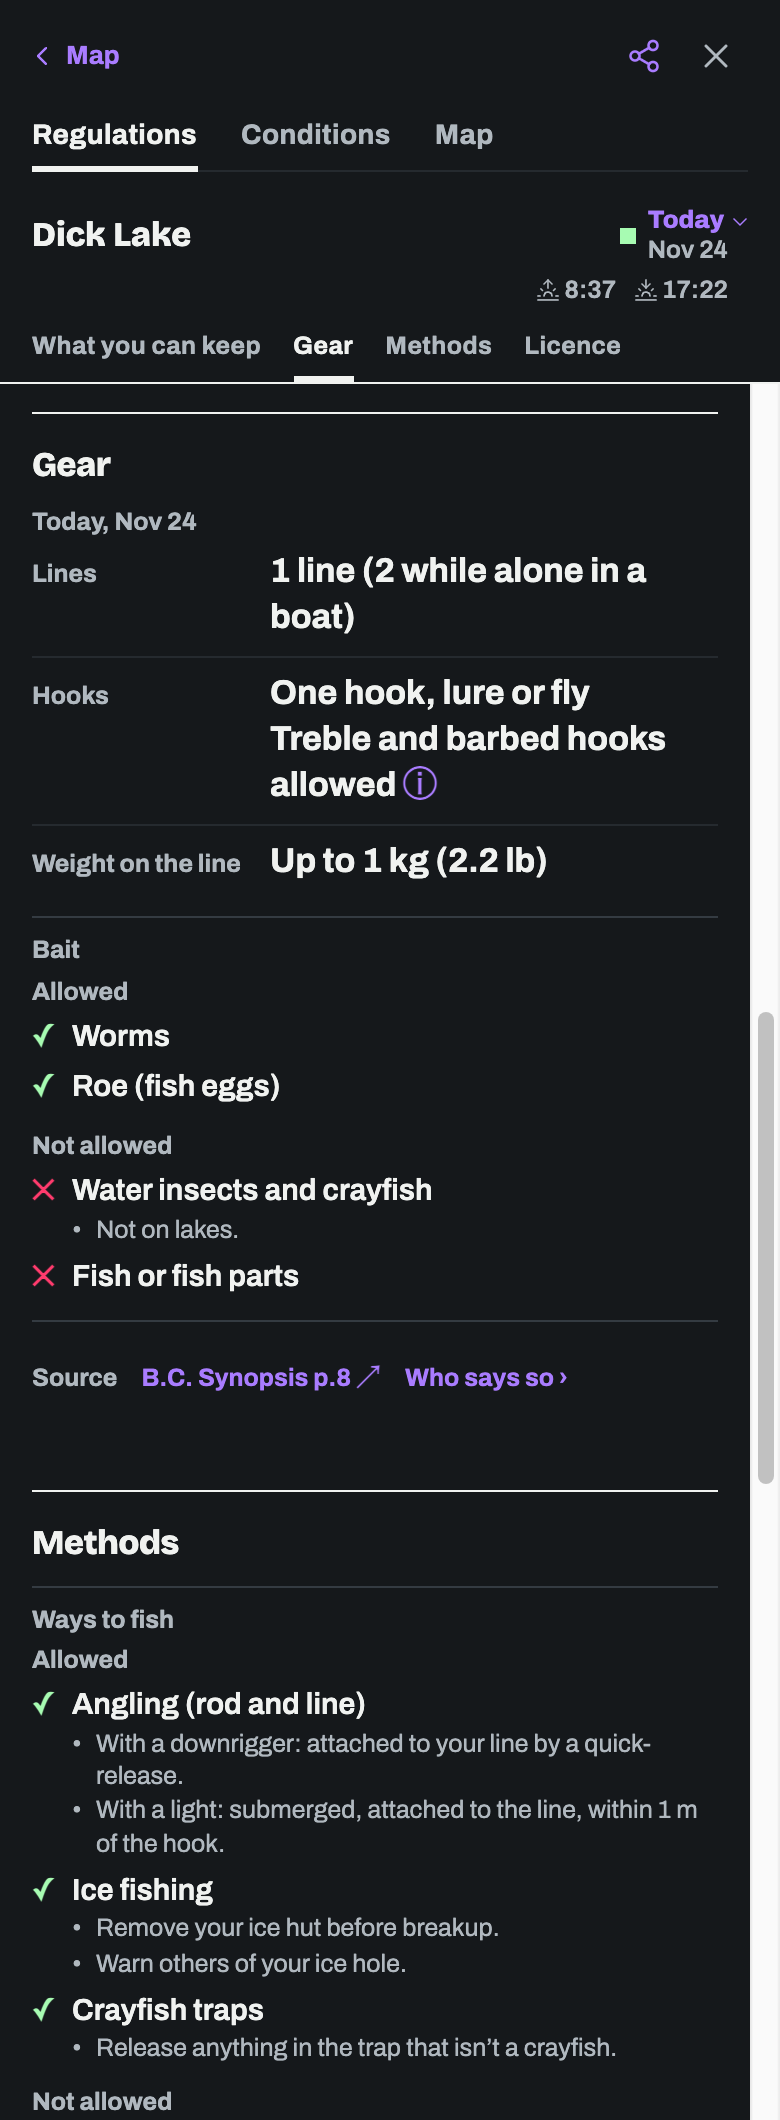
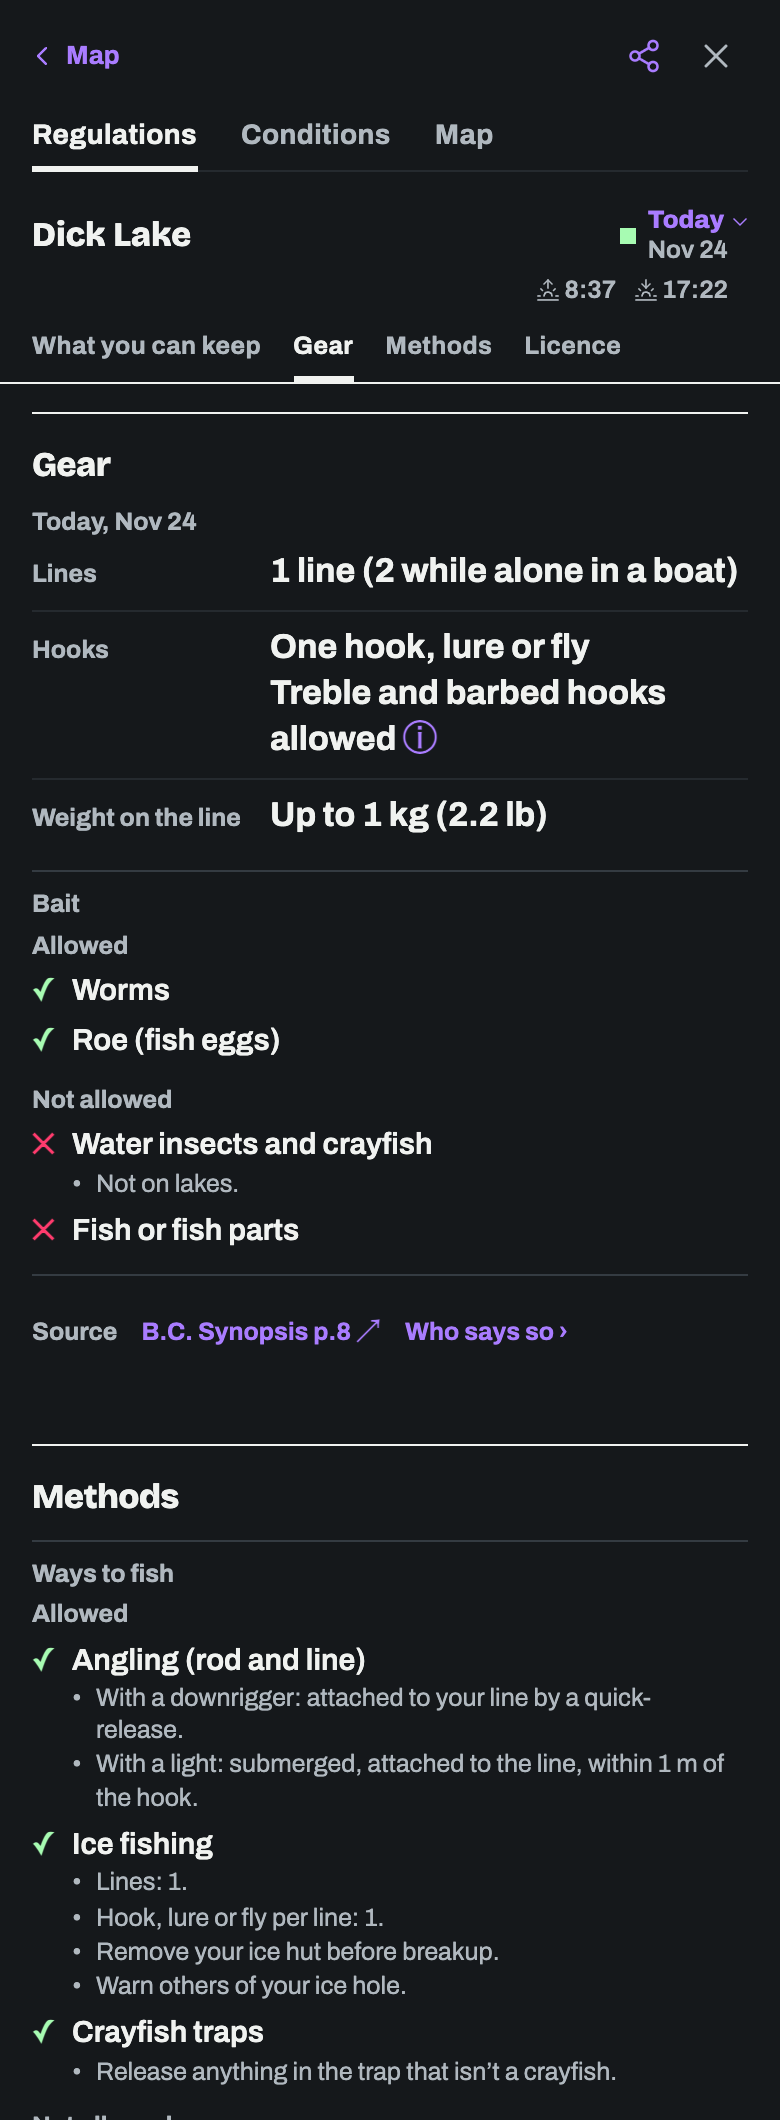
docs(T1051): review answered; PARTIAL with three owner questions, recount, pictures and proposals

diff --git a/handoff/PLAN/app-integration/tickets/T1051-treble-hooks-on-a-lake.md b/handoff/PLAN/app-integration/tickets/T1051-treble-hooks-on-a-lake.md
@@ -1,6 +1,6 @@
 # T1051 — "Are treble hooks allowed here?": a lake's Gear tab says nothing about treble or barbed hooks
 
-Status: DONE — 5c68e2bda, 474f38bb0 (the frozen VM fixtures) (0.9.1; app only: the frame already ships `hook` and `fly` for every part, so it needs the 0.9.1 app build, no data release; it works on the 0.9.0 data)
+Status: PARTIAL — 5c68e2bda, 474f38bb0, 4b45d37e1 (review fix) (0.9.1; needs the 0.9.1 app build AND the 0.9.1 data release for the new glossary term: on 0.9.0 data the line shows with no ⓘ). left (Claude): the three owner questions below go to the owner through the coordinator (the planning chat tracks owner items), then the picked wording is built; the defaults are built meanwhile.
 
 Source: in-app report `437acc75d93a4a1a` (staging feeds worker, the owner, 2026-11-24 18:49 UTC), reason "rule", on
 Dick Lake `wbk:328989582`, part 0, "Today, Nov 24", Regulations view, web, app 0.9.0 (build 43, 127bf43), release
@@ -60,34 +60,60 @@ an info button to the book's wording, on every water where it is true). This REP
 hook" confused; say no hook at all where nothing restricts hooks): the summary sentence still names no hook there, and
 the Hooks row now says what is allowed.
 
-## Done (lane L20, 2026-11-24)
+## Done (lane L20, 2026-11-24; review of #144 the same day)
 
-- The frame ships `hook` (and `fly`) on every gear answer (`answers.generated.ts` `GearAnswer.hook`, `gear.py`
-  `resolve`), so core words it; no pipeline change. `app/packages/core/src/regs/gear.ts` `hooksAllowed` + `gearLines`:
-  a second Hooks line, computed per water and day, only what is true:
-  - `trebles_and_barbs` (no point limit, no barb ban), no fly mode: "Treble and barbed hooks allowed", one ⓘ =
-    `def_single_hook` (p.80 "use of a treble hook is permitted unless 'single hook' is specified"); the section's source
-    line already carries p.8;
+- The frame ships `hook` (and `fly`) on every gear answer (`answers.generated.ts` `GearAnswer.hook`, `gear.py` `resolve`),
+  so core words it. `app/packages/core/src/regs/gear.ts` `hooksAllowed` + `gearLines`: a second Hooks line, per water and
+  day, only what is true:
+  - `trebles_and_barbs` (no point limit, no barb ban), no fly mode: "Treble and barbed hooks allowed";
   - `any_barbless` (barbless required, points not limited), no fly mode: "Treble hooks allowed" (the row's "Barbless
-    hooks" stays), ⓘ `def_single_hook`;
-  - `single` (one point, barbs allowed), or a fly-only water whose answer allows barbs: "Barbed hooks allowed", ⓘ
-    `single_barbless_hook` (its quote carries p.8 "the use of barbed hooks in lakes is permitted, unless noted");
-  - `single_barbless` (every stream unless its row lifts it): nothing added. A fly is "a single-pointed hook" (p.80
-    artificial fly), so no fly-only water says treble.
-  Words in `words.ts` `GEAR.HOOKS_ALLOWED`, ids in `HOOKS_ALLOWED_TERMS`.
-- Tests: `gear.test.ts` "(T1051) …" (Dick Lake and Dick Creek whole strings, the truth table, fly modes, a point count,
-  the ⓘ only when the glossary has it). Mutation-proved: no line (2 fail), treble said on fly-only waters (1 fails).
-  The fixture's default `hook` moved from `any` (no water has it) to `single_barbless` so the older cases add no line.
-- Over the 0.9.0 release (`r-0aec88ed3edb`), named waters by what their Hooks row gains over the year: "Treble and
-  barbed hooks allowed" 7,346 (7,300 lakes, 45 wetlands, 1 stream: Pend-d'Oreille River, RULINGS G9) + 8 lakes on some
-  days only (Cowichan, Eagan, Main Lake …; single barbless on the others) + Osoyoos Lake (both / treble-only by day);
-  "Treble hooks allowed" 1 (Quesnel Lake); "Barbed hooks allowed" 37 lakes (single-hook lakes such as Andy, Hihium,
-  Whiteswan; fly-only lakes such as Valentine, Nilkitkwa); nothing added 12,127 streams + 245 lakes. Unnamed sections:
-  695,733 gain the both line, 1,180,186 nothing.
-- Pictures (web 390 px, Nov 24; before = the 0.9.0 app on the 0.9.0 release, after = this branch on a side release cut with T1050, so its Ice fishing lists no counts): `T1051-shots/dick-lake-gear-before-*.png`,
-  `dick-lake-gear-after-*.png`, the stream `dick-creek-gear-after-*.png` (unchanged), `pend-doreille-gear-after-*.png`
-  (a stream where both are true), `quesnel-lake-gear-after-*.png`, `andy-lake-gear-after-*.png` (light and dark).
+    hooks" stays);
+  - `single` (one point, barbs allowed), or a fly-only water whose answer allows barbs: "Barbed hooks allowed";
+  - `single_barbless` (every stream unless its row lifts it): nothing added. A fly is "a single-pointed hook that is
+    dressed only with fur, feathers, hair, textiles, tinsel and/or wire" (printed p.80, PDF p.86 of the repo copy), so no
+    fly-only water says treble. (The review quoted "a single or double hook dressed …": that is the older wording in
+    `gear.py`'s fly-mode comment, not this book's; the comment in `gear.ts` now quotes the printed text.)
+- Review HIGH (4b45d37e1): the hook answer is the WHOLE water's. Where a hook rule (points or barb) is held only in a part
+  no map draws (`in_part`), on one side or some hours (`side`, `timed`) or in a circumstance (`circumstantial`), an
+  unqualified "allowed" is untrue somewhere: no line there, as before T1051. In the 0.9.0 release: François Lake (outlet
+  area, map 1), Upper Arrow Lake (north-end drawdown area), Pitt Lake (north of the head-of-lake signs) on every day, and
+  Mahood Lake on Jul 1–Dec 31 (its two in-part areas). Their wording is an owner question (pictures below).
+- Review MED (4b45d37e1): the ⓘ on "Treble and barbed hooks allowed" and "Barbed hooks allowed" opens a NEW glossary term,
+  `treble_and_barbed_hooks` "Treble and barbed hooks" (`pipeline/deliver/answers/glossary.py` `t_treble_and_barbed`): plain
+  words, then in the book's words p.80's single-hook definition with its treble note and p.8's "the use of barbed hooks in
+  lakes is permitted, unless noted …", pages 8 and 80. The p.80 `def_single_hook` alone backed only the treble half, and
+  the "Single barbless hook" term's title contradicts the line. "Treble hooks allowed" (barbless required) keeps
+  `def_single_hook`. The term ships in the answers file (0.9.1 data release); an app on 0.9.0 data draws the line without
+  its ⓘ (the glossary lacks the id).
+- Review LOW: an unknown hook answer draws no line and is reported (`UnknownHookAnswer`, `reportFailure`, W46).
+- Tests: `gear.test.ts` "(T1051) …" and "(T1051 review) …" (Dick Lake and Dick Creek whole strings; the truth table; fly
+  modes; a point count; François, Mahood, Upper Arrow and Pitt lakes with their in-part rule; side, timed, circumstance;
+  the unknown answer reported); `pipeline/tests/test_glossary_treble_barbed.py` (the term quotes both halves). Mutation-
+  proved: no line (2 fail), treble on fly-only waters (1), no part guard (2), in_part only (1), any part rule counts (1),
+  the unknown answer silent (1). The frozen regs VM fixtures (klwa_1010, klwa_1012, x35p_1010) carry the line.
+- Over the 0.9.0 release (`r-0aec88ed3edb`), named waters by what their Hooks row gains over the year (recounted after the
+  review fix): "Treble and barbed hooks allowed" every day 7,342 (7,296 lakes, 45 wetlands, Pend-d'Oreille River, RULINGS
+  G9), on some days 8 lakes (single barbless on the others: Cowichan, Eagan, Main …) + Osoyoos Lake (both / treble-only by
+  day) + Mahood Lake (Jan 1–Jun 30); "Treble hooks allowed" 1 (Quesnel Lake); "Barbed hooks allowed" 37 lakes (single-hook
+  lakes such as Andy, Hihium, Whiteswan; fly-only lakes such as Valentine, Nilkitkwa); no line because of a part rule 3
+  lakes (François, Upper Arrow, Pitt); nothing added 12,127 streams + 245 lakes.
+- Pictures (web 390 px, Nov 24, `T1051-shots/`, light and dark): before (0.9.0 app on the 0.9.0 release)
+  `dick-lake-gear-before-*`; after (this branch on a side release cut with this branch's glossary) `dick-lake-gear-after-*`,
+  the ⓘ sheet `dick-lake-hooks-sheet-*` and with its book's words open `dick-lake-hooks-sheet-book-words-*`,
+  `francois-lake-gear-after-*` (no line); earlier after shots `dick-creek-gear-after-*` (a stream, unchanged),
+  `pend-doreille-gear-after-*`, `quesnel-lake-gear-after-*`, `andy-lake-gear-after-*` (their ⓘ then opened the earlier
+  terms). PROPOSALS only (not built): `proposal-A-francois-lake-except-in-spots-*` "Treble and barbed hooks allowed, except
+  in some spots (see above)" and `proposal-B-francois-lake-most-of-the-lake-*` "Treble and barbed hooks allowed in most
+  of the lake; a single barbless hook in some spots (see above)" (the page's "Fishing is different in some spots today"
+  block lists the part rule above the Gear section).
 - Not done here: Dick Lake's Bait line "Not allowed: Water insects and crayfish · Not on lakes." is T1075 (the Bait
-  item, `bait.ts` / `BAIT` words, a different code path from the Hooks row).
-- Owner to confirm (built as default): the two partial wordings ("Treble hooks allowed", "Barbed hooks allowed") and
-  the ⓘ on "Barbed hooks allowed" (the Single barbless hook sheet, whose p.8 words say barbs are allowed in lakes).
+  item, a different code path from the Hooks row).
+
+## Owner questions (built default in brackets)
+
+1. The two partial wordings: "Treble hooks allowed" (barbless required, Quesnel Lake) and "Barbed hooks allowed"
+   (single hook required, 37 lakes). [built as written]
+2. The ⓘ sheet "Treble and barbed hooks" (`dick-lake-hooks-sheet-*`): its title and plain words. [built as shown]
+3. The lakes where a part holds a single barbless hook (François, Upper Arrow, Pitt; Mahood Jul–Dec): A "…, except in some
+   spots (see above)", B "… in most of the lake; a single barbless hook in some spots (see above)", or C no line (as
+   now). [C until he picks]

diff --git a/handoff/PLAN/app-integration/tickets/README.md b/handoff/PLAN/app-integration/tickets/README.md
@@ -293,7 +293,7 @@ reads both files; a ticket closed here moves there once its lane is finished wit
 | T1049 | A start link's scroll lands short: it jumps to the first measured section top and never re-checks | PARTIAL — 0.9.1: a slow cold start waits for the salmon card, the in-season notices and a settled page; device gear 6/6, licence 6/6, was 2/12, 0/11; #107 no different; left (Claude): review and merge of #122, then the device check on a release build | ae65ef767, a2478c6dc, d2239c54d, b3de2bbc1, 09f6346e0, eb8e2092a, 5f8a37cbc, 53e9106e2 | review of #80 (T1038), 2026-11-23; 0.9.0 device pass |
 | T1045 | Gauge pages should come up for "<river> river forecast / level / flow" (title/H1 words, water-to-gauge links, JSON-LD) | DONE | 859b10591, fc3626905, 4af1ba636, 0922cb1f3 | owner 2026-11-23 (lane L27) |
 | T1050 | Methods: "Ice fishing" repeats the Gear tab's line and hook counts (Dick Lake) | OPEN — 0.9.1; owner pick of the words, then pipeline + data release | | staging report 4eedeb08d1964b44 (owner 2026-11-24); lane L19 |
-| T1051 | A lake's Gear tab says nothing about treble or barbed hooks (both allowed; Dick Lake) | DONE — 0.9.1; needs the 0.9.1 app build | 5c68e2bda, 474f38bb0 | staging report 437acc75d93a4a1a (owner 2026-11-24); lane L19 |
+| T1051 | A lake's Gear tab says nothing about treble or barbed hooks (both allowed; Dick Lake) | PARTIAL — 0.9.1; app build + data release (glossary term); owner questions on the words | 5c68e2bda, 474f38bb0, 4b45d37e1 | staging report 437acc75d93a4a1a (owner 2026-11-24); lane L19 |
 | T1052 | A water closed to all fishing says it twice (a Salmon row and a game-fish "Closed all year" block; Nelson Creek) | OPEN — 0.9.1; owner pick of the words, then app build | | staging report 19a865256d6dd70d (owner 2026-11-24); lane L19 |
 | T1053 | Eagle Creek ✱: the walk stops at its head lake (Dick Lake), and Sources never says "tributaries" | OPEN — 0.9.1 for the Sources words; the head-lake walk waits on an owner ruling | | staging report 3eaf5ac25fc39d73 (owner 2026-11-24); lane L19 |
 | T1054 | Tides: a tide condition / forecast layer | OPEN — future (0.10 or later), unscoped | | owner 2026-11-24, relayed by the 0.9.0 chat |
